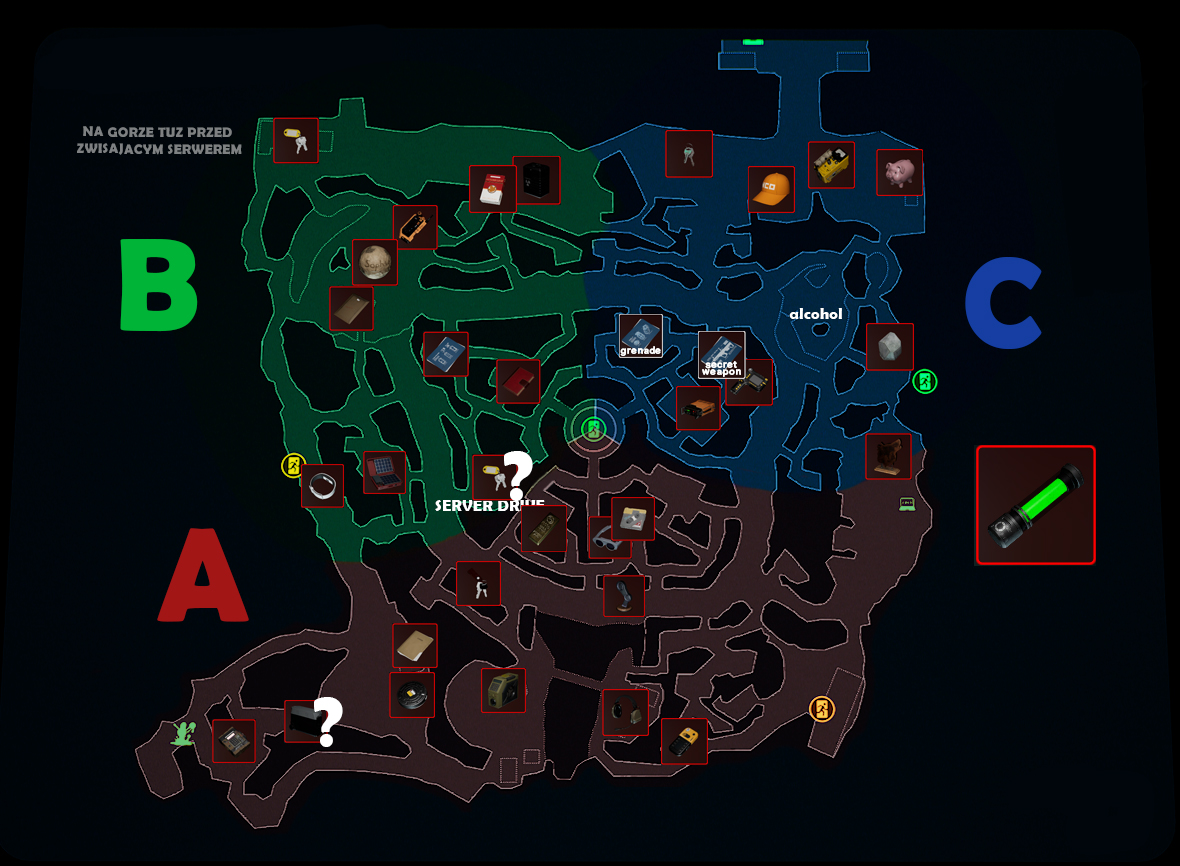
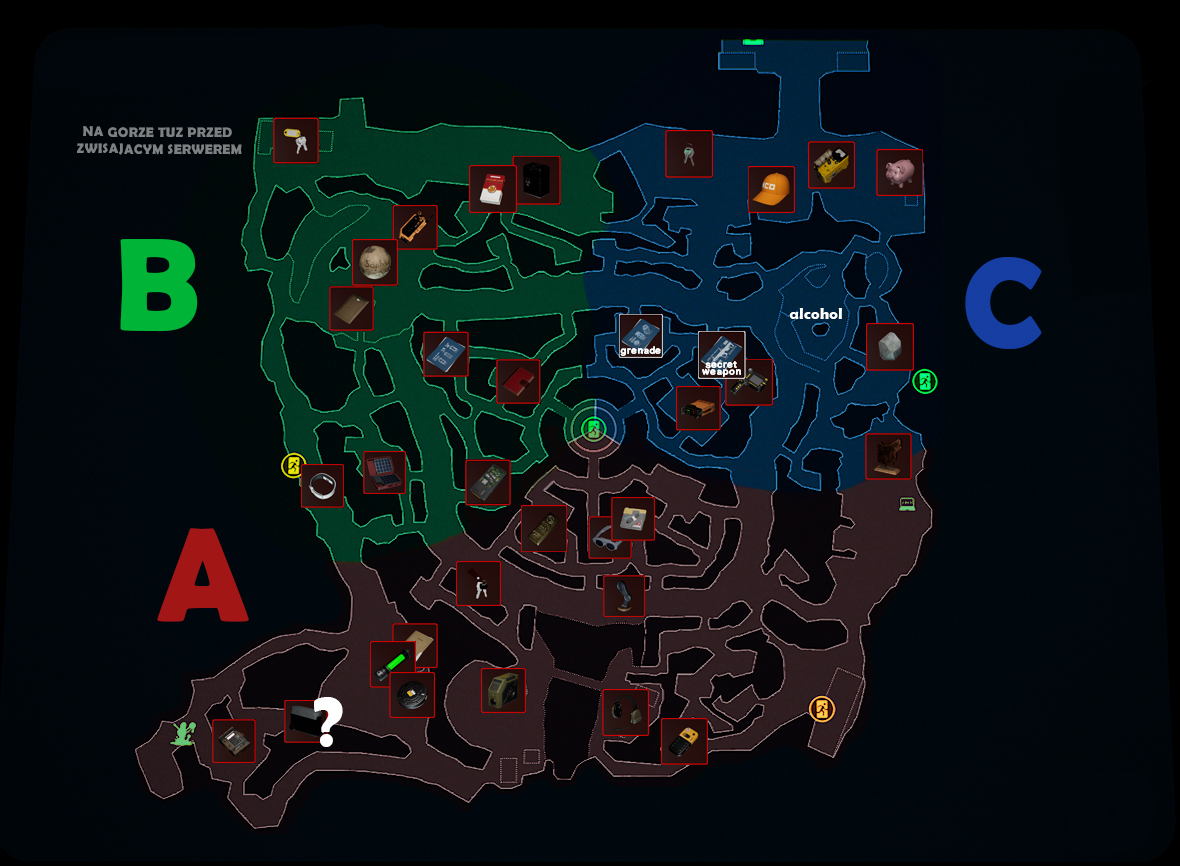
drive and vial update

Changed region(s): [[0.8237, 0.4988, 0.9458, 0.6547], [0.3661, 0.4988, 0.4576, 0.5924], [0.3051, 0.7171, 0.3661, 0.7794]]

diff --git a/index.html b/index.html
@@ -23,7 +23,7 @@
       <img src="./IMAGES/googles.jpg" alt="Overlay Image" class="googles-on-map" id="googlesOnMap">
 
       <img src="./IMAGES/headphones.jpg" alt="Overlay Image" class="headphones-on-map" id="headphonesOnMap">
-      <img src="./IMAGES/bear.jpg" alt="Overlay Image" class="bear-on-map" id="bearOnMap">
+      <img src="./IMAGES/vial.jpg" alt="Overlay Image" class="vial-on-map" id="vialOnMap">
       <img src="./IMAGES/solar.jpg" alt="Overlay Image" class="solar-on-map" id="solarOnMap">
       <img src="./IMAGES/wristband.jpg" alt="Overlay Image" class="wristband-on-map" id="wristbandOnMap">
 
@@ -42,6 +42,8 @@
       <img src="./IMAGES/bpb.jpg" alt="Overlay Image" class="bpb-on-map" id="bpbOnMap">
       <img src="./IMAGES/diary.jpg" alt="Overlay Image" class="diary-on-map" id="diaryOnMap">
 
+      <img src="./IMAGES/drive.jpg" alt="Overlay Image" class="drive-on-map" id="driveOnMap">
+
 
 
       <img src="./IMAGES/keysc.jpg" alt="Overlay Image" class="keysc-on-map" id="keyscOnMap">
@@ -55,6 +57,7 @@
       <img src="./IMAGES/gem.jpg" alt="Overlay Image" class="gem-on-map" id="gemOnMap">
 
       <img src="./IMAGES/cap.jpg" alt="Overlay Image" class="cap-on-map" id="capOnMap">
+      <img src="./IMAGES/bear.jpg" alt="Overlay Image" class="bear-on-map" id="bearOnMap">
     </div>
 
     <div class="columns">
@@ -75,7 +78,7 @@
         <div class="spacea">b</div>
         <div>
           <button class="button headphones"></button>
-          <button class="button bear"></button>
+          <button class="button vial"></button>
           <button class="button solar"></button>
           <button class="button wristband"></button>
         </div>
@@ -100,8 +103,12 @@
           <button class="button bpb"></button>
           <button class="button diary"></button>
         </div>
+        <div class="spaceb">h</div>
+        <div>
+          <button class="button drive"></button>
+        </div>
       </div>
-      <div class="space">h</div>
+      <div class="space">i</div>
       <div class="C">
         <div>
           <button class="button keysc"></button>
@@ -119,6 +126,7 @@
         <div class="spacec">l</div>
         <div>
           <button class="button cap"></button>
+          <button class="button bear"></button>
         </div>
       </div>
       <div class="space">m</div>
@@ -152,8 +160,8 @@
 
       const headphonesButton = document.querySelector('.headphones');
       const headphonesImage = document.getElementById('headphonesOnMap');
-      const bearButton = document.querySelector('.bear');
-      const bearImage = document.getElementById('bearOnMap');
+      const vialButton = document.querySelector('.vial');
+      const vialImage = document.getElementById('vialOnMap');
       const solarButton = document.querySelector('.solar');
       const solarImage = document.getElementById('solarOnMap');
       const wristbandButton = document.querySelector('.wristband');
@@ -184,6 +192,9 @@
       const diaryButton = document.querySelector('.diary');
       const diaryImage = document.getElementById('diaryOnMap');
 
+      const driveButton = document.querySelector('.drive');
+      const driveImage = document.getElementById('driveOnMap');
+
 
 
       const keyscButton = document.querySelector('.keysc');
@@ -206,6 +217,8 @@
 
       const capButton = document.querySelector('.cap');
       const capImage = document.getElementById('capOnMap');
+      const bearButton = document.querySelector('.bear');
+      const bearImage = document.getElementById('bearOnMap');
 
       // Initially hide the overlay images
       bombImage.style.display = 'none';
@@ -249,7 +262,7 @@
           googlesImage.style.display = googlesButton.classList.contains('googles-pressed') ? 'block' : 'none';
 
           headphonesImage.style.display = headphonesButton.classList.contains('headphones-pressed') ? 'block' : 'none';
-          bearImage.style.display = bearButton.classList.contains('bear-pressed') ? 'block' : 'none';
+          vialImage.style.display = vialButton.classList.contains('vial-pressed') ? 'block' : 'none';
           solarImage.style.display = solarButton.classList.contains('solar-pressed') ? 'block' : 'none';
           wristbandImage.style.display = wristbandButton.classList.contains('wristband-pressed') ? 'block' : 'none';
 
@@ -268,6 +281,8 @@
           bpbImage.style.display = bpbButton.classList.contains('bpb-pressed') ? 'block' : 'none';
           diaryImage.style.display = diaryButton.classList.contains('diary-pressed') ? 'block' : 'none';
 
+          driveImage.style.display = driveButton.classList.contains('drive-pressed') ? 'block' : 'none';
+
 
 
           keyscImage.style.display = keyscButton.classList.contains('keysc-pressed') ? 'block' : 'none';
@@ -281,6 +296,7 @@
           gemImage.style.display = gemButton.classList.contains('gem-pressed') ? 'block' : 'none';
 
           capImage.style.display = capButton.classList.contains('cap-pressed') ? 'block' : 'none';
+          bearImage.style.display = bearButton.classList.contains('bear-pressed') ? 'block' : 'none';
         });
       });
 

diff --git a/main.css b/main.css
@@ -1,3 +1,12 @@
+body:after {
+  position: absolute;
+  width: 0;
+  height: 0;
+  overflow: hidden;
+  z-index: -1;
+  content: url();
+}
+
 body {
   background-color: #000;
   margin: 0;
@@ -397,6 +406,22 @@ body {
   height: auto;
 }
 
+.drive {
+  background-image: url(./IMAGES/drive.jpg);
+}
+
+.drive-pressed {
+  background-image: url(./IMAGES/drivebnw.jpg);
+}
+
+.drive-on-map {
+  position: absolute;
+  top: 53.1%;
+  left: 39.4%;
+  width: auto;
+  height: auto;
+}
+
 .keysc {
   background-image: url(./IMAGES/keysc.jpg);
 }
@@ -537,6 +562,22 @@ body {
   position: absolute;
   top: 19.2%;
   left: 63.4%;
+  width: auto;
+  height: auto;
+}
+
+.vial {
+  background-image: url(./IMAGES/vial.jpg);
+}
+
+.vial-pressed {
+  background-image: url(./IMAGES/vialbnw.jpg);
+}
+
+.vial-on-map {
+  position: absolute;
+  top: 74.1%;
+  left: 31.3%;
   width: auto;
   height: auto;
 }
